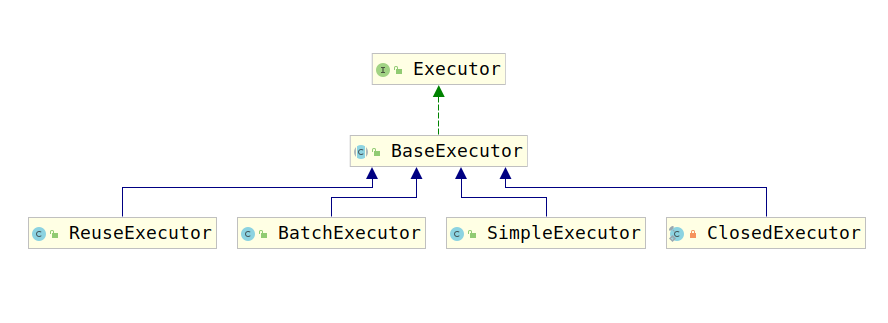
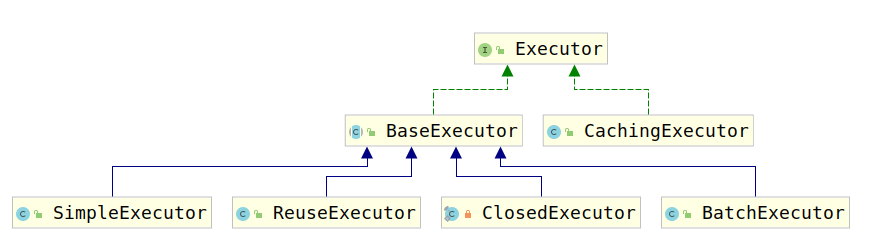
add notes of mybatis cache

diff --git a/Mybatis/mybatis源码阅读/3.Mapper方法执行逻辑/5.Executor执行过程/5-5.一级缓存和二级缓存.md b/Mybatis/mybatis源码阅读/3.Mapper方法执行逻辑/5.Executor执行过程/5-5.一级缓存和二级缓存.md
@@ -1,0 +1,285 @@
+# 5-5. 一级缓存和二级缓存
+
+Mybatis为了降低数据库的压力，为数据库查询做了缓存工作，而该缓存工作分为两级。分别为一级缓存和二级缓存，具体使用BaseExecutor和CacheExecutor实现，接下来对其进行详细描述。
+
+## 5-5.1 一级缓存
+
+一级缓存是Mybatis默认开启的，经过之前的源码阅读，我们知道，Mybatis的Mapper操作是通过sqlSession进行处理的，而sqlSession将操作逻辑又交给了Executor家族中的各位。考察SqlSession的生成，即SqlSessionInterceptor（SqlSessionTemplate的子类）中的`invoke(Object proxy, Method method, Object[] args)`方法，考虑获取SqlSession的部分：
+
+```java
+SqlSession sqlSession = getSqlSession(
+          SqlSessionTemplate.this.sqlSessionFactory,
+          SqlSessionTemplate.this.executorType,
+          SqlSessionTemplate.this.exceptionTranslator);
+```
+
+考虑`getSqlSession(SqlSessionFactory sessionFactory, ExecutorType executorType, PersistenceExceptionTranslator exceptionTranslator)`方法：
+
+```java
+    SqlSessionHolder holder = (SqlSessionHolder) TransactionSynchronizationManager.getResource(sessionFactory);
+
+    SqlSession session = sessionHolder(executorType, holder);
+    if (session != null) {
+      return session;
+    }
+
+    if (LOGGER.isDebugEnabled()) {
+      LOGGER.debug("Creating a new SqlSession");
+    }
+
+    session = sessionFactory.openSession(executorType);
+
+    registerSessionHolder(sessionFactory, executorType, exceptionTranslator, session);
+
+    return session;
+```
+
+可以看到SqlSession有两种方式生成：
+
+1. 从事务管理器获取。
+2. 通过SessionFactory生成。
+
+调试可知，对于Mybatis来说，一条事务中的Sql执行均使用一个SqlSession，而未使用事务的则使用SessionFactory创建新的SqlSession来执行。
+
+考虑如下情况，假如一个Session中有多条相同的查询，那么会造成数据库压力变大，但是却是无用的操作导致的，因为在极其严格的情况下（可重复读和序列化）的情况下，两者查到的数据其实是相同的，为此，mybatis在这方面做了缓存，防止相同的查询操作为数据库带来压力。
+
+但是由于SqlSessionTemplate在每次Mapper中的方法调用完均会调用如下方法：
+
+```java
+        if (sqlSession != null) {
+          closeSqlSession(sqlSession, SqlSessionTemplate.this.sqlSessionFactory);
+        }
+```
+
+所以在使用SSM时，一级缓存是无法被使用的。
+
+一级缓存具有SESSION级别和STATEMENT级别两种。SESSION级别表示缓存在一个SESSION中共享，SESSION结束则清除缓存，而STATEMENT级别表示在执行一个STATEMENT的过程中缓存共享，然而一条Sql就是一个STATEMENT，因此，这与禁用一级缓存差别不大。
+
+一级缓存是通过BaseExecutor实现的，上面介绍了BaseExecutor使用了模板模式，而实现一级缓存就是BaseExecutor使用模板方法的原因之一。
+
+考虑BaseExecutor的`query(MappedStatement ms, Object parameter, RowBounds rowBounds, ResultHandler resultHandler, CacheKey key, BoundSql boundSql)`方法，可以看到如下代码：
+
+```java
+list = resultHandler == null ? (List<E>) localCache.getObject(key) : null;
+```
+
+这就意味着如果缓存中存在则取缓存中的值，获取缓存是通过某个key完成的，那么这个key是如何生成的呢？考虑`query(MappedStatement ms, Object parameter, RowBounds rowBounds, ResultHandler resultHandler)`方法：
+
+```java
+  @Override
+  public <E> List<E> query(MappedStatement ms, Object parameter, RowBounds rowBounds, ResultHandler resultHandler) throws SQLException {
+    BoundSql boundSql = ms.getBoundSql(parameter);
+    CacheKey key = createCacheKey(ms, parameter, rowBounds, boundSql);
+    return query(ms, parameter, rowBounds, resultHandler, key, boundSql);
+  }
+```
+
+可以看到，之前使用的key是使用`createCacheKey(MappedStatement ms, Object parameterObject, RowBounds rowBounds, BoundSql boundSql)`方法生成的，考察该方法：
+
+```java
+public CacheKey createCacheKey(MappedStatement ms, Object parameterObject, RowBounds rowBounds, BoundSql boundSql) {
+    if (closed) {
+      throw new ExecutorException("Executor was closed.");
+    }
+    CacheKey cacheKey = ndelegateew CacheKey();
+    // cacheKey整合了MapperStatement的ID，也就是配置的方法名
+    cacheKey.update(ms.getId());
+    // cacheKey整合了分页信息即（rowBounds）
+    cacheKey.update(rowBounds.getOffset());
+    cacheKey.update(rowBounds.getLimit());
+    // cacheKey整合了Sql语句
+    cacheKey.update(boundSql.getSql());
+    List<ParameterMapping> parameterMappings = boundSql.getParameterMappings();
+    TypeHandlerRegistry typeHandlerRegistry = ms.getConfiguration().getTypeHandlerRegistry();
+    // mimic DefaultParameterHandler logic
+    for (ParameterMapping parameterMapping : parameterMappings) {
+      // cacheKey整合了查询参数
+      if (parameterMapping.getMode() != ParameterMode.OUT) {
+        Object value;
+        String propertyName = parameterMapping.getProperty();
+        if (boundSql.hasAdditionalParameter(propertyName)) {
+          value = boundSql.getAdditionalParameter(propertyName);
+        } else if (parameterObject == null) {
+          value = null;
+        } else if (typeHandlerRegistry.hasTypeHandler(parameterObject.getClass())) {
+          value = parameterObject;
+        } else {
+          MetaObject metaObject = configuration.newMetaObject(parameterObject);
+          value = metaObject.getValue(propertyName);
+        }
+        cacheKey.update(value);
+      }
+    }
+    // 最后cacheKey整合了所谓的环境，即DataSouce、事务管理器
+    if (configuration.getEnvironment() != null) {
+      // issue #176
+      cacheKey.update(configuration.getEnvironment().getId());
+    }
+    return cacheKey;
+  }
+```
+
+总结上述代码可知，CacheKey是MapperStatement的ID、分页信息、sql语句、查询参数、环境ID的集合体。一旦缺少一个都会导致缓存key出错。
+
+1. 缺少MapperStatementID: 无法将数据库操作与方法进行匹配，可能出现id不同但是其余相同的代码。
+2. 缺少分页信息：分页查询必须有分页信息才有意义
+3. sql语句：存在动态SQL
+4. 查询参数： 查询参数不同导致查询数据不同
+5. 环境ID： 不能导致环境混乱，DataSource A与DataSource B的数据很大可能不相同。
+
+因此数据查询时会加入缓存，而数据更新时会删除缓存，考察BaseExecutor的update()方法：
+
+```java
+  public int update(MappedStatement ms, Object parameter) throws SQLException {
+    ErrorContext.instance().resource(ms.getResource()).activity("executing an updatedelegate").object(ms.getId());
+    if (closed) {
+      throw new ExecutorException("Executor was closed.");
+    }
+    clearLocalCache();
+    return doUpdate(ms, parameter);
+  }
+```
+
+由于Mybatis的更新、插入、删除均是调用的update()方法，因此，上述三种方法均会刷新缓存。除此之外还有两种情况会清空一级缓存：
+
+```java
+  public void commit(boolean required) throws SQLException {
+    if (closed) {
+      throw new ExecutorException("Cannot commit, transaction is already closed");
+    }
+    clearLocalCache();
+    flushStatements();
+    if (required) {
+      transaction.commit();
+    }
+  }
+
+  public void rollback(boolean required) throws SQLException {
+    if (!closed) {
+      try {
+        clearLocalCache();
+        flushStatements(true);
+      } finally {
+        if (required) {
+          transaction.rollback();
+        }
+      }
+    }
+  }
+```
+
+而Executor关闭时会调用rollback(boolean)方法：
+
+```java
+  public void close(boolean forceRollback) {
+    try {
+      try {
+        rollback(forceRollback);
+      } finally {
+        if (transaction != null) {
+          transaction.close();
+        }
+      }
+    } catch (SQLException e) {
+      // Ignore.  There's nothing that can be done at this point.
+      log.warn("Unexpected exception on closing transaction.  Cause: " + e);
+    } finally {
+      transaction = null;
+      deferredLoads = null;
+      localCache = null;
+      localOutputParameterCache = null;
+      closed = true;
+    }
+  }
+```
+
+所以一级缓存就是被如此清理的。
+
+讨论了BaseExecutor是如何操作一级缓存的，那么一级缓存到底是什么呢？由如下代码可知，一级缓存是一个PerpetualCache类型的对象：
+
+```java
+protected PerpetualCache localCache;
+```
+
+继续考察改类，发现如下代码：
+
+```java
+public class PerpetualCache implements Cache {
+
+  private Map<Object, Object> cache = new HashMap<Object, Object>();
+
+}
+```
+
+所以，一级缓存仅仅是简单的HashMap。由于我们通常也不会在并发情况下使用Mybatis所以，使用HashMap，也不会导致问题。至此关于一级缓存的讨论结束了。
+
+## 5-5.2 二级缓存
+
+Mybatis的二级缓存是CachingExecutor实现的，再次查看Executor接口的类继承关系：
+
+![Executor类图](images/Executor类图.png)
+
+可以看到CachingExecutor是Executor的实现类，考察CachingExecutor的属性可以发现：
+
+```java
+private final Executor delegate;
+```
+
+CachingExecutor明显使用了装饰器模式，所以考察其构造器，我们发现：
+
+```java
+  public CachingExecutor(Executor delegate) {
+    this.delegate = delegate;
+    delegate.setExecutorWrapper(this);
+  }
+```
+
+将装饰者传递给了被装饰者。
+
+考察CachingExecutor源码，我们发现其实二级缓存的管理交给了名为tcm的属性，如下：
+
+```java
+private final TransactionalCacheManager tcm = new TransactionalCacheManager();
+```
+
+CachingExecutor仅仅是在Executor的基本方法中包含了tcm的基本cache处理方法罢了。这里我们对其进行考察：
+
+1. close(boolean)方法：
+
+    ```java
+    public void close(boolean forceRollback) {
+        try {
+        //issues #499, #524 and #573
+        // 如果执行rollback，将缓存删除
+        if (forceRollback) {
+            tcm.rollback();
+        } else {
+            // 否则执行提交操作
+            tcm.commit();
+        }
+        } finally {
+        // 关闭Executor
+        delegate.close(forceRollback);
+        }
+    }
+    ```
+
+2. update()方法
+
+    ```java
+    public int update(MappedStatement ms, Object parameterObject) throws SQLException {
+        // 刷新缓存
+        flushCacheIfRequired(ms);
+        // 更新数据
+        return delegate.update(ms, parameterObject);
+    }
+
+    private void flushCacheIfRequired(MappedStatement ms) {
+        // 获取缓存
+        Cache cache = ms.getCache();
+        // 清除缓存
+        if (cache != null && ms.isFlushCacheRequired()) {
+            tcm.clear(cache);
+        }
+    }
+    ```

diff --git a/Mybatis/mybatis源码阅读/3.Mapper方法执行逻辑/5.Executor执行过程/5-4 Executor家族.md b/Mybatis/mybatis源码阅读/3.Mapper方法执行逻辑/5.Executor执行过程/5-4 Executor家族.md
@@ -36,7 +36,7 @@ Executor接口声明了众多方法，用来处理update、query、flush、commi
 1. log：容易知道，该属性用于打印log。
 2. transaction: 事务
 3. wrapper：由于Mybatis的Executor采用的是装饰器模式，因此这里名为wrapper。
-4. deferredLoads:
+4. deferredLoads: 延迟加载
 5. localCache： Mybatis一级缓存（存储结果）
 6. localOutputParameterCache：Mybatis一级缓存（存储入参）
 7. configuration：Mybatis全局配置
@@ -220,7 +220,7 @@ Executor接口声明了众多方法，用来处理update、query、flush、commi
     @Override
     public <E> List<E> query(MappedStatement ms, Object parameter, RowBounds rowBounds, ResultHandler resultHandler, CacheKey key, BoundSql boundSql) throws SQLException {
       ErrorContext.instance().resource(ms.getResource()).activity("executing a query").object(ms.getId());
-      // 如果Executor被关闭，则退出
+      // 如果Executor被关闭，则退出实现
       if (closed) {
         throw new ExecutorException("Executor was closed.");
       }
@@ -237,11 +237,11 @@ Executor接口声明了众多方法，用来处理update、query、flush、commi
         if (list != null) {
           // 获取结果不为null，缓存存储过程中的输出参数如果Statement类型为CALLABLE的话（即调用的是存储过程）
           handleLocallyCachedOutputParameters(ms, key, parameter, boundSql);
-        } else {
-          // 从数据库中查询结果
-          list = queryFromDatabase(ms, parameter, rowBounds, resultHandler, key, boundSql);
+        } else {方法
+          // 从方法
+          list =方法ms, parameter, rowBounds, result方法Sql);
         }
-      } finally {
+      } finally 方法
         // 查询完成后queryStack --
         queryStack--;
       }
@@ -283,7 +283,7 @@ Executor接口声明了众多方法，用来处理update、query、flush、commi
       }
     ```
 
-    由于这里使用的是存储过程，这一技术基本已经被淘汰，存储过程的缺点请查看[]()，这里我们不详细说明。继续考察真正的查询逻辑，考察queryFromDataBase()方法。
+    由于这里使用的是存储过程，这一技术基本已经被淘汰，这里我们不详细说明。继续考察真正的查询逻辑，考察queryFromDataBase()方法。
 
     ```java
     private <E> List<E> queryFromDatabase(MappedStatement ms, Object parameter, RowBounds rowBounds, ResultHandler resultHandler, CacheKey key, BoundSql boundSql) throws SQLException {
@@ -306,3 +306,44 @@ Executor接口声明了众多方法，用来处理update、query、flush、commi
       return list;
     }
     ```
+
+    查询操作如下：
+
+    1. 将本地缓存中加入占位符号。
+    2. 进行真正的查询操作
+    3. 删除占位副
+    4. 将查询结果放入到缓存中。
+
+    说实话，不太明白为何会使用占位符，可能是为了防止重复查询吧。
+
+6. queryCursor()方法
+
+    该方法使用了Mysql的游标，具体的查询仍然交给doQueryCursor实现。
+
+    ```java
+    @Override
+    public <E> Cursor<E> queryCursor(MappedStatement ms, Object parameter, RowBounds rowBounds) throws SQLException {
+      BoundSql boundSql = ms.getBoundSql(parameter);
+      return doQueryCursor(ms, parameter, rowBounds, boundSql);
+    }
+    ```
+
+## 5-4.3 子类继承、实现的方法
+
+该部分方法需要子类进行继承实现，目的是供模板方法调用。是真正的操作逻辑。
+
+```java
+protected abstract int doUpdate(MappedStatement ms, Object parameter)
+      throws SQLException;
+
+  protected abstract List<BatchResult> doFlushStatements(boolean isRollback)
+      throws SQLException;
+
+  protected abstract <E> List<E> doQuery(MappedStatement ms, Object parameter, RowBounds rowBounds, ResultHandler resultHandler, BoundSql boundSql)
+      throws SQLException;
+
+  protected abstract <E> Cursor<E> doQueryCursor(MappedStatement ms, Object parameter, RowBounds rowBounds, BoundSql boundSql)
+      throws SQLException;
+```
+
+查看完上面的部分，想必这里你已经懂得是用来做什么的了，而BaseExecutor的各个子类均以不同方式实现了上述方法。
